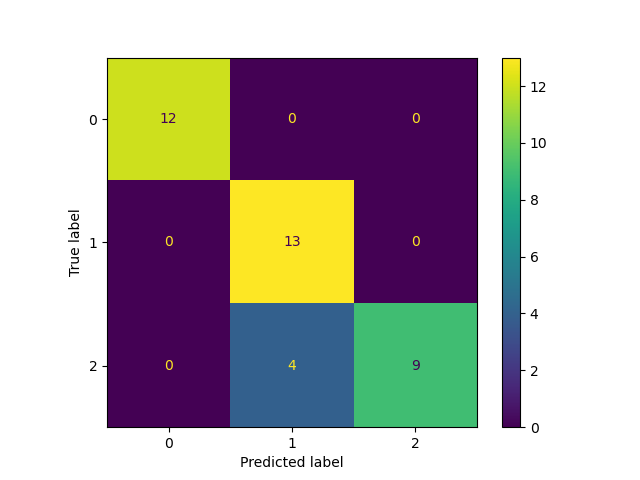
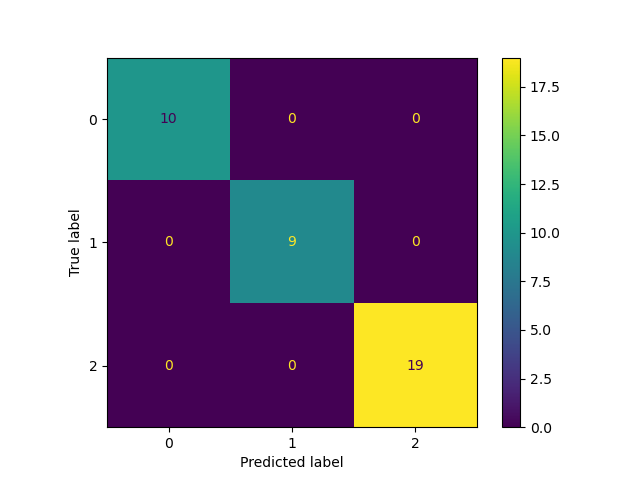
test augmented

diff --git a/irisclassifier.py b/irisclassifier.py
@@ -1,13 +1,14 @@
 from sklearn.datasets import load_iris
 from sklearn.model_selection import train_test_split
-from sklearn.linear_model import SGDClassifier
+from sklearn.neural_network import MLPClassifier
 from sklearn.metrics import plot_confusion_matrix
 import matplotlib.pyplot as plt
 
 
+
 class IrisClassifier:
 
-    def __init__(self, iterations=200):
+    def __init__(self, iterations=500):
         self.data = None
         self.x_train = None
         self.x_test = None
@@ -23,7 +24,7 @@ class IrisClassifier:
         self.x_train, self.x_test, self.y_train, self.y_test = train_test_split(self.data['data'], self.data['target'])
 
     def train(self):
-        self.trained_model = SGDClassifier(max_iter=self.epochs, random_state=1).fit(self.x_train, self.y_train)
+        self.trained_model = MLPClassifier(max_iter=self.epochs, random_state=1).fit(self.x_train, self.y_train)
 
     def evaluation(self):
         score = self.trained_model.score(self.x_test, self.y_test)

diff --git a/test_irisclassifier.py b/test_irisclassifier.py
@@ -2,12 +2,21 @@ from typing import Set
 import irisclassifier
 import pytest
 
-epochs: Set[int] = {5, 10, 25, 50, 100, 200}
+epochs: Set[int] = {50, 100, 200, 300, 500}
 
 
 @pytest.mark.parametrize('epoch', epochs)
 def test_evaluations(epoch):
     i = irisclassifier.IrisClassifier(epoch)
+    i.ingestion()
+    i.segregation()
+    i.train()
+    res = i.evaluation()
+    assert res > 0.75
+
+
+def test_evaluation():
+    i = irisclassifier.IrisClassifier()
     i.ingestion()
     i.segregation()
     i.train()
